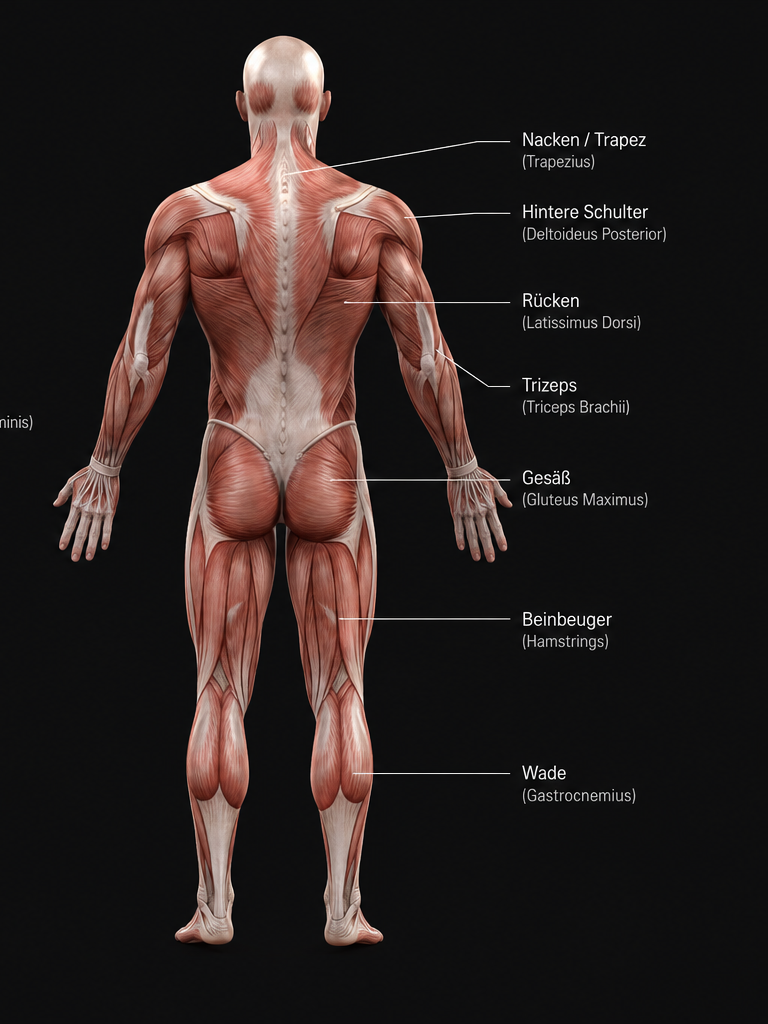
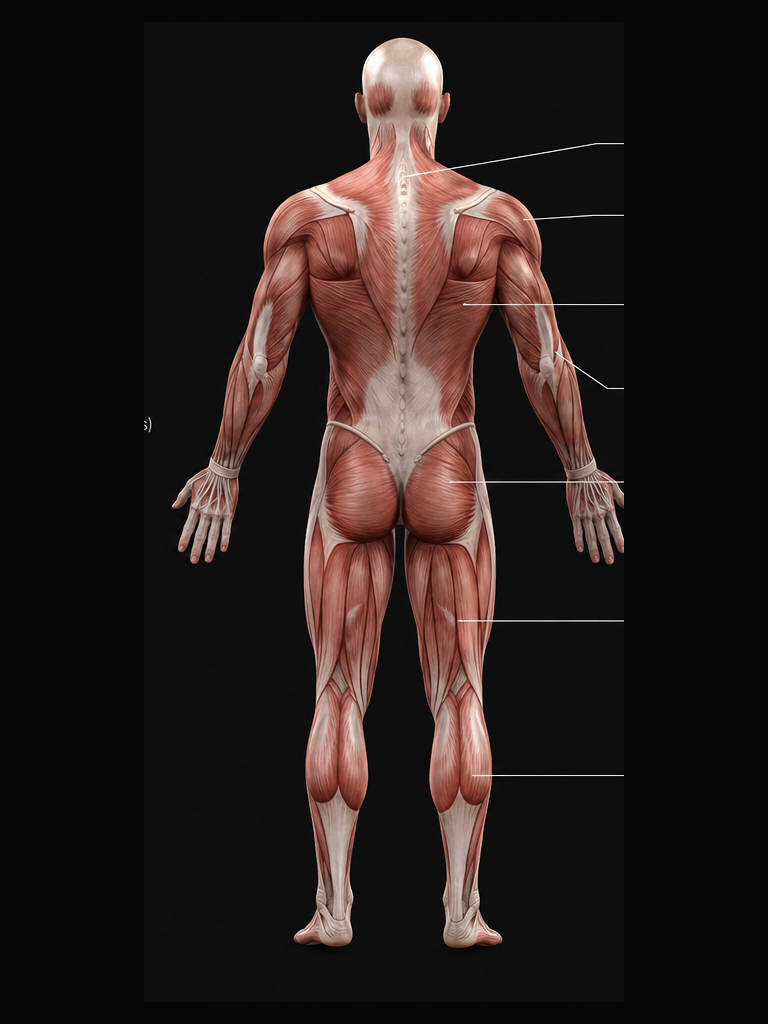
BodyPlan 2.0 Beta 7

Changed region(s): [[0.0625, 0.0312, 0.875, 0.9375], [0.0, 0.4062, 0.0312, 0.4375]]

diff --git a/app.js b/app.js
@@ -529,8 +529,8 @@ async function paintHeatmaps(scores,max){
     const group=HEAT_GROUPS[a[i]-1],v=group?Number(scores[group]||0):0;
     if(!v||!max||!a[i+1]){a[i+3]=0;continue}
     const r=v/max,coverage=a[i+1]/255;
-    const c=r>.75?[239,72,49]:r>.5?[235,124,49]:r>.25?[225,165,62]:[206,174,94];
-    a[i]=c[0];a[i+1]=c[1];a[i+2]=c[2];a[i+3]=Math.round((r>.75?.72:r>.5?.60:r>.25?.48:.35)*255*coverage);
+    const c=r>=.75?[255,55,42]:r>=.5?[255,126,35]:r>=.25?[235,176,62]:[190,145,55];
+    a[i]=c[0];a[i+1]=c[1];a[i+2]=c[2];a[i+3]=Math.round((r>=.75?.88:r>=.5?.76:r>=.25?.64:.52)*255*coverage);
    }
    oc.putImageData(data,0,0);ctx.drawImage(off,0,0);
   }catch(err){console.error("Heatmap asset could not be loaded",err)}
@@ -548,11 +548,12 @@ function renderHeatmap(){
  return `<div class="eyebrow">Analyse</div><h1 class="page-title">Muskel-Heatmap</h1>
  <div class="range-tabs"><button data-range="30" class="${heatRange===30?"active":""}">30 Tage</button><button data-range="90" class="${heatRange===90?"active":""}">90 Tage</button><button data-range="365" class="${heatRange===365?"active":""}">12 Monate</button></div>
  <div class="heat-summary"><div><strong>${totalSets}</strong><span>Arbeitssätze</span></div><div><strong>${ranked.length}</strong><span>Muskelgruppen</span></div></div>
- <div class="heat-layout">${anatomyView("front",scores,max)}${anatomyView("back",scores,max)}</div>
+ <div class="heat-view-tabs" role="tablist" aria-label="Körperansicht"><button data-heat-view-tab="front" class="${heatView==="front"?"active":""}">Vorderseite</button><button data-heat-view-tab="back" class="${heatView==="back"?"active":""}">Rückseite</button></div>
+ <div class="heat-layout">${anatomyView(heatView,scores,max)}</div>
  <div class="card" style="margin-top:14px"><div class="eyebrow">Deine Muskelbelastung</div>
- <p class="muted" style="margin:9px 0 15px">Je länger der Balken, desto stärker wurde die Muskelgruppe im gewählten Zeitraum beansprucht.</p>
- ${ranked.length?`<div class="muscle-rank">${ranked.map(([m,v])=>`<div class="muscle-simple"><div class="muscle-simple-head"><span>${esc(seed.muscleGroups[m]||m)}</span><strong>${Math.round(v/max*100)}%</strong></div><div class="bar"><span style="width:${Math.round(v/max*100)}%"></span></div></div>`).join("")}</div>`:`<div class="empty">Für diesen Zeitraum liegen noch keine auswertbaren Trainings vor.</div>`}
- <div class="heat-legend-scale"><div><i></i>Niedrig</div><div><i></i>Moderat</div><div><i></i>Hoch</div><div><i></i>Sehr hoch</div></div>
+ <p class="muted" style="margin:9px 0 15px">Relative Belastung im gewählten Zeitraum. 100 % entspricht deiner am stärksten beanspruchten Muskelgruppe.</p>
+ ${ranked.length?`<div class="muscle-rank">${ranked.map(([m,v])=>{const pct=Math.round(v/max*100),level=pct>=75?"Sehr hoch":pct>=50?"Hoch":pct>=25?"Moderat":"Niedrig",cls=pct>=75?"very-high":pct>=50?"high":pct>=25?"moderate":"low";return `<div class="muscle-simple ${cls}"><div class="muscle-simple-head"><span>${esc(seed.muscleGroups[m]||m)}</span><strong>${level} <small>${pct}%</small></strong></div><div class="bar"><span style="width:${pct}%"></span></div></div>`}).join("")}</div>`:`<div class="empty">Für diesen Zeitraum liegen noch keine auswertbaren Trainings vor.</div>`}
+ <div class="heat-legend-scale heat-legend-clear"><div><i></i><span>Niedrig<small>1–24 %</small></span></div><div><i></i><span>Moderat<small>25–49 %</small></span></div><div><i></i><span>Hoch<small>50–74 %</small></span></div><div><i></i><span>Sehr hoch<small>75–100 %</small></span></div></div>
  <details class="heat-method"><summary>Wie wird die Belastung berechnet?</summary><p>BodyPlan zählt absolvierte Arbeitssätze und gewichtet sie nach der Muskelbeteiligung der Übung. Ein Satz kann mehrere Muskelgruppen beanspruchen. Die Prozentwerte vergleichen die Muskelgruppen innerhalb des gewählten Zeitraums: 100 % ist die am stärksten belastete Gruppe. Sie sind keine Messung von Muskelwachstum, Erholung oder Trainingsqualität.</p><p>Beispiel: 3 Sätze Bankdrücken mit Brustgewichtung 1,0 ergeben 3 Reizpunkte. Eine sekundäre Gewichtung von 0,5 ergibt 1,5 Punkte. Historische Übungen ohne eindeutige Zuordnung werden nicht geschätzt.</p></details>
  </div>`;
 }
@@ -768,3 +769,5 @@ async function importBackup(e){
 Promise.all(["exercise-seed.json","starter-plan.json"].map(u=>fetch(u,{cache:"no-store"}).then(r=>{if(!r.ok)throw Error(u);return r.json()})))
 .then(([s,p])=>{seed=s;starter=p;init()})
 .catch(err=>{$("#app").innerHTML=`<div class="card"><div class="eyebrow">BodyPlan</div><h1 class="page-title">Start fehlgeschlagen</h1><div class="muted">${esc(err.message)}</div></div>`});
+
+document.addEventListener("click",e=>{const b=e.target.closest("[data-heat-view-tab]");if(!b)return;heatView=b.dataset.heatViewTab;render();});

diff --git a/app.css b/app.css
@@ -472,3 +472,19 @@ body.picker-open{overflow:hidden}
 #newPlanForm{margin-top:20px}
 #newPlanForm .actions{justify-content:flex-end;margin-top:22px}
 @media(max-width:390px){.plan-management-actions{display:grid;grid-template-columns:1fr 1fr}.plan-management-actions .primary{grid-column:1/-1}.plan-management-actions button{font-size:12px;padding:12px 10px}}
+
+/* Beta 7 — final heatmap UX pass */
+.heat-view-tabs{display:grid;grid-template-columns:1fr 1fr;gap:8px;margin:2px 0 14px;padding:4px;border:1px solid #2b2b2b;border-radius:14px;background:#111}
+.heat-view-tabs button{min-height:44px;border:0;border-radius:10px;background:transparent;color:#aaa;font-size:13px;font-weight:700}
+.heat-view-tabs button.active{background:var(--gold);color:#090909}
+.heat-layout{display:block}
+.heat-layout .anatomy-card{margin-bottom:0}
+.muscle-simple-head strong{display:flex;gap:7px;align-items:baseline}
+.muscle-simple-head strong small{color:#858585;font-size:10px;font-weight:600}
+.muscle-simple.low .bar span{background:#be9137}.muscle-simple.moderate .bar span{background:#ebb03e}.muscle-simple.high .bar span{background:#ff7e23}.muscle-simple.very-high .bar span{background:#ff372a}
+.heat-legend-clear{display:grid;grid-template-columns:repeat(4,1fr);gap:6px;margin-top:18px}
+.heat-legend-clear>div{display:flex;align-items:flex-start;gap:6px;min-width:0}
+.heat-legend-clear i{flex:0 0 20px;margin-top:4px}
+.heat-legend-clear span{font-size:9px;color:#aaa;line-height:1.2}
+.heat-legend-clear small{display:block;margin-top:3px;color:#666;font-size:8px;white-space:nowrap}
+@media(max-width:390px){.heat-legend-clear i{flex-basis:14px}.heat-legend-clear span{font-size:8px}.heat-legend-clear small{font-size:7px}}

diff --git a/service-worker.js b/service-worker.js
@@ -1,4 +1,4 @@
-const CACHE_NAME='bodyplan-2-beta6';
+const CACHE_NAME='bodyplan-2-beta7';
 const ASSETS=[
 './','./index.html','./app.css','./app.js',
 './exercise-seed.json','./starter-plan.json',

diff --git a/README.md b/README.md
@@ -1,22 +1,15 @@
-# BodyPlan 2.0 Beta 6
+# BodyPlan 2.0 Beta 7
+
+Focused heatmap UX release.
+
+## Changes
+- Front/back anatomy is now switched via a compact segmented control; only one view is shown at a time.
+- Baked-in external anatomy labels are removed from the visible asset area to prevent front/back label collisions.
+- Heatmap intensity uses a clearer four-level scale with stronger visual contrast.
+- Muscle load rows show both an understandable category and the relative percentage.
+- Thresholds are explicit: Low 1–24%, Moderate 25–49%, High 50–74%, Very high 75–100%.
+- Calculation details remain collapsed by default.
+- Existing local BodyPlan data/storage is unchanged.
 
 ## Update
-1. In der bisherigen App unter Einstellungen ein JSON-Backup erstellen und sicher aufbewahren.
-2. Den vollständigen Inhalt dieser ZIP in das bestehende Repository hochladen und gleichnamige Dateien ersetzen. Die Ordnerstruktur beibehalten.
-3. Nach dem Deployment die App schließen und erneut öffnen. Bei einem alten Cache die Website in Safari neu laden. Keine Website-Daten löschen und die Home-Screen-App nicht deinstallieren.
-4. Vorhandene Trainings, Pläne, Übungen, Notizen und Körpermessungen kontrollieren.
-
-## Änderungen
-- Neue Trainingspläne werden über ein integriertes Formular angelegt und enthalten direkt eine erste bearbeitbare Einheit.
-- Der redundante zweite Erstellen-Button wurde entfernt.
-- Übungen werden über einen durchsuchbaren Bibliotheksdialog ausgewählt. Muskelgruppen- und Equipmentfilter, Mehrfachauswahl und eine Anzeige bereits verwendeter Übungen erleichtern die Planung.
-- Derselbe Dialog wird zum Ersetzen einer Übung verwendet. Neue Übungen können direkt im Dialog mit Name, Equipment und primärer Muskelgruppe angelegt werden.
-- Der funktionslose Gewohnheitenbereich wurde aus den Einstellungen entfernt. Historische Daten bleiben erhalten.
-- Planaktionen sind auf kleinen Displays übersichtlicher angeordnet. Der aktive Plan zeigt keine irreführende Lösch-Swipe-Aktion.
-- Navigation setzt die Scrollposition zurück, während Eingaben und Übungsauswahl ihren Kontext behalten.
-
-## Daten
-Die Datenbank bp4_bodyplan_v2 und vorhandene bp3_-Daten bleiben unverändert kompatibel. Es findet keine automatische Löschung historischer Daten statt. Die Anatomie-Assets und die Muskelgewichtungslogik entsprechen Beta 5. Ein Backup-Import ersetzt weiterhin die aktuellen Daten und erfordert eine Bestätigung.
-
-## Qualitätssicherung
-Siehe QA.md. Browser- und Logiktests wurden durchgeführt. Ein abschließender Test auf dem tatsächlichen iPhone und der produktiven Hosting-Umgebung bleibt erforderlich.
+Replace the repository files with this release. The service-worker cache is versioned as `bodyplan-2-beta7` so old cached application assets are retired after activation.
